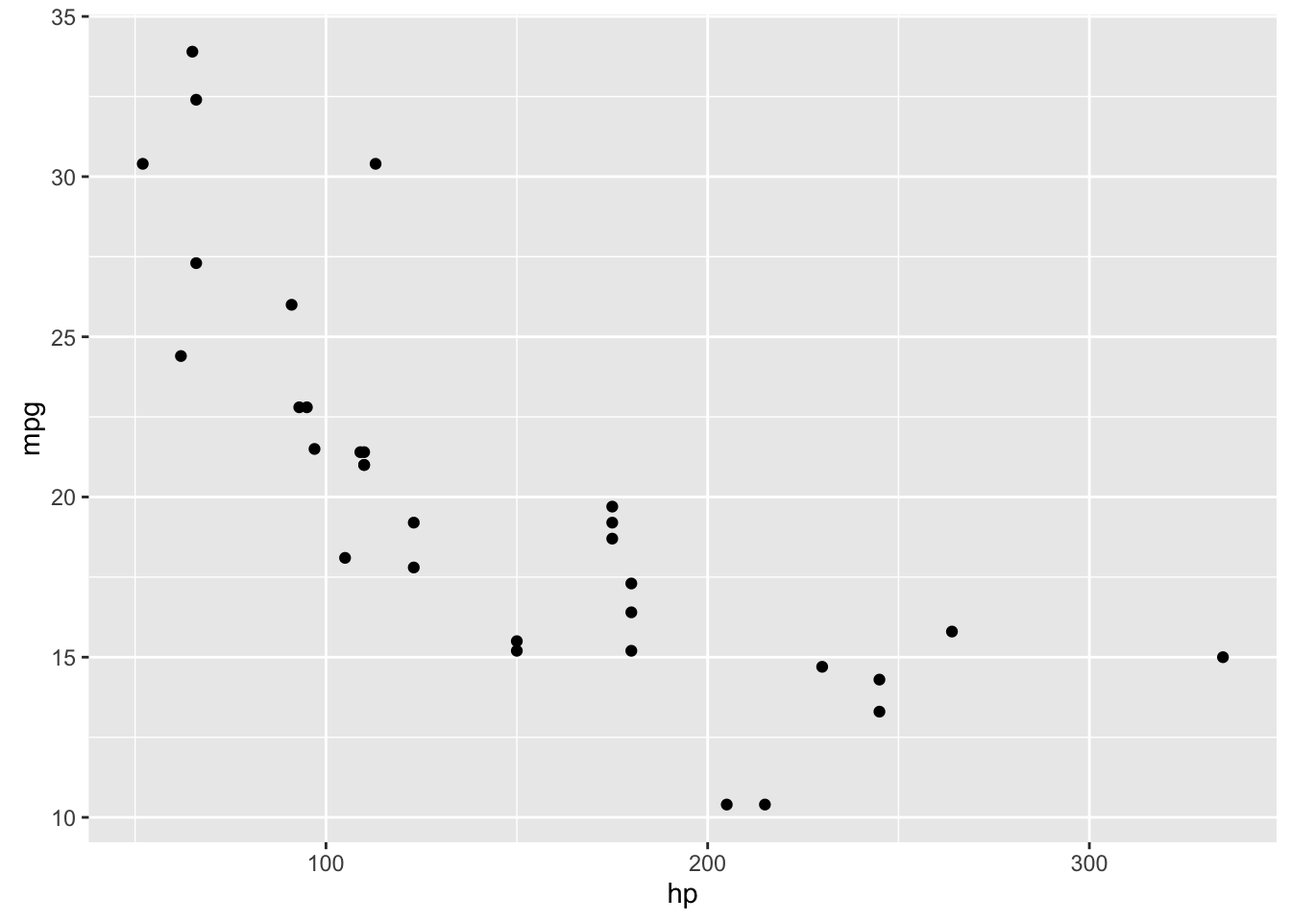
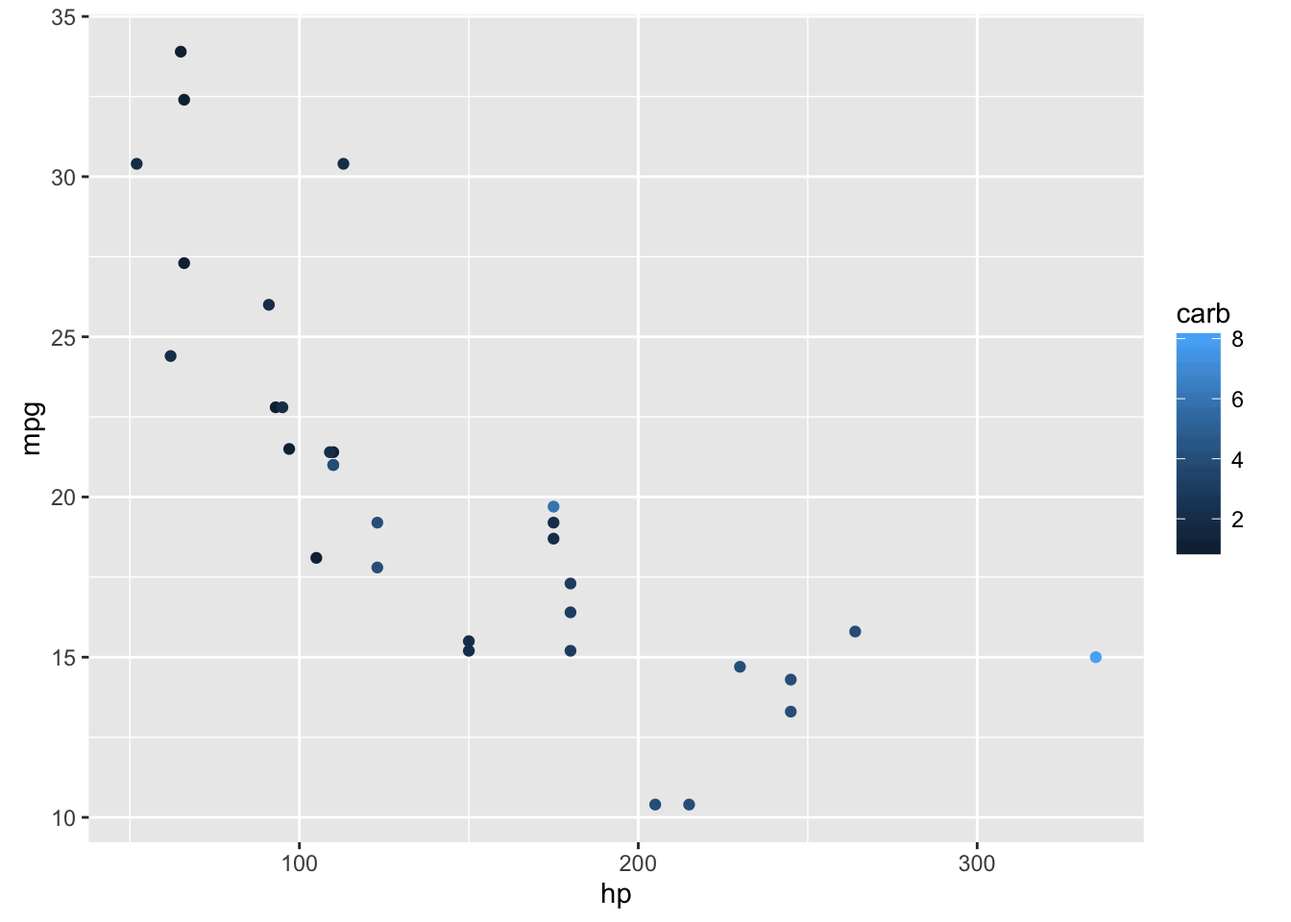
Folded tests into tutor document system

diff --git a/inst/checkr-test-cases.html b/inst/checkr-test-cases.html
@@ -111,37 +111,65 @@ $(document).ready(function () {
 </div>
 
 
+<div id="section-example-1" class="section level2">
+<h2>Example 1</h2>
+<p>Modify the code to add two and two:</p>
+<div class="tutor-exercise" data-label="example_1" data-caption="Exercise" data-lines="0">
+<pre class="text"><code>1 + 3</code></pre>
+<script type="application/json" data-opts-chunk="1">{"fig.width":7,"fig.height":5,"fig.retina":2,"fig.align":"default","fig.keep":"high","fig.show":"asis","out.width":672,"warning":true,"error":false,"message":true,"exercise.df_print":"default","exercise.checker":["function (label = NULL, user_code = NULL, check_code = NULL, ","    envir_result = NULL, evaluate_result = NULL, ..., feedback = tutor::feedback, ","    debug = TRUE) ","{","    if (debug) {","        save_file_name <- sprintf(\"~/Downloads/CheckR/chunk-%s.rds\", ","            label)","        saveRDS(list(label = label, user_code = user_code, check_code = check_code, ","            envir = envir_result, evaluate_result = evaluate_result), ","            file = save_file_name)","    }","    USER_CODE <- capture.code(user_code)","    test_envir <- new.env()","    assign(\"USER_CODE\", USER_CODE, envir = test_envir)","    commands <- parse(text = paste(check_code, collapse = \"\\n\"))","    for (k in 1:length(commands)) {","        R <- eval(commands[k], envir = test_envir)","        if (!is.null(names(R)) && all(c(\"passed\", \"line\", \"message\") %in% ","            names(R))) {","            if (R$passed) ","                next","            else {","                return(feedback(paste(\"Sorry, but\", R$message), ","                  type = \"error\", location = \"prepend\"))","            }","        }","    }","    feedback(\"Good job!\", type = \"success\")","}"]}</script>
+</div>
+<div class="tutor-exercise-support" data-label="example_1-solution" data-caption="Exercise" data-lines="0">
+<pre class="text"><code>2 + 2</code></pre>
+</div>
+<div class="tutor-exercise-support" data-label="example_1-check" data-caption="Exercise" data-lines="0">
+<pre class="text"><code>test_1 &lt;- fun_test(&quot;2 + 2&quot;, &quot;remember to add two plus two&quot;)
+USER_CODE %&gt;% test_1</code></pre>
+</div>
+</div>
+<div id="section-example-2" class="section level2">
+<h2>Example 2</h2>
 <p>Fill in the code to create this plot:</p>
 <p><img src="checkr-test-cases_files/figure-html/unnamed-chunk-1-1.png" width="30%" /></p>
 <div class="tutor-exercise" data-label="mtcarplot" data-caption="Exercise" data-lines="0">
-<pre class="text"><code># I have filled in the blanks so I can check the checker function
-# easily, with just a &quot;Run Code&quot; button push
-p &lt;- ggplot(mtcars, aes( x = hp , y = mpg )) + geom_point()
-p</code></pre>
-<script type="application/json" data-opts-chunk="1">{"fig.width":7,"fig.height":5,"fig.retina":2,"fig.align":"default","fig.keep":"high","fig.show":"asis","out.width":672,"warning":true,"error":false,"message":true,"exercise.df_print":"default","exercise.checker":["function (label = NULL, user_code = NULL, check_code = NULL, ","    envir_result = NULL, evaluate_result = NULL, ...) ","{","    save_file_name <- sprintf(\"~/Downloads/CheckR/chunk-%s.rds\", ","        label)","    saveRDS(list(label = label, user_code = user_code, check_code = check_code, ","        envir = envir_result, evaluate_result = evaluate_result), ","        file = save_file_name)","    tutor::feedback(paste(\"Check info saved in \", save_file_name), ","        type = \"success\", location = \"append\")","}"]}</script>
+<pre class="text"><code>ggplot(mtcars, aes( x = ___ , y = ___ )) + geom_point()</code></pre>
+<script type="application/json" data-opts-chunk="1">{"fig.width":7,"fig.height":5,"fig.retina":2,"fig.align":"default","fig.keep":"high","fig.show":"asis","out.width":672,"warning":true,"error":false,"message":true,"exercise.df_print":"default","exercise.checker":["function (label = NULL, user_code = NULL, check_code = NULL, ","    envir_result = NULL, evaluate_result = NULL, ..., feedback = tutor::feedback, ","    debug = TRUE) ","{","    if (debug) {","        save_file_name <- sprintf(\"~/Downloads/CheckR/chunk-%s.rds\", ","            label)","        saveRDS(list(label = label, user_code = user_code, check_code = check_code, ","            envir = envir_result, evaluate_result = evaluate_result), ","            file = save_file_name)","    }","    USER_CODE <- capture.code(user_code)","    test_envir <- new.env()","    assign(\"USER_CODE\", USER_CODE, envir = test_envir)","    commands <- parse(text = paste(check_code, collapse = \"\\n\"))","    for (k in 1:length(commands)) {","        R <- eval(commands[k], envir = test_envir)","        if (!is.null(names(R)) && all(c(\"passed\", \"line\", \"message\") %in% ","            names(R))) {","            if (R$passed) ","                next","            else {","                return(feedback(paste(\"Sorry, but\", R$message), ","                  type = \"error\", location = \"prepend\"))","            }","        }","    }","    feedback(\"Good job!\", type = \"success\")","}"]}</script>
 </div>
 <div class="tutor-exercise-support" data-label="mtcarplot-solution" data-caption="Exercise" data-lines="0">
-<pre class="text"><code>3 + 2</code></pre>
+<pre class="text"><code>ggplot(mtcars, aes(x=hp, y = mpg)) + geom_point(aes(color = carb))</code></pre>
 </div>
 <div class="tutor-exercise-support" data-label="mtcarplot-check" data-caption="Exercise" data-lines="0">
 <pre class="text"><code>test_1 &lt;- fun_test(&quot;aes(y = mpg)&quot;, message = &quot;mpg should be the y aesthetic&quot;)
-test_2 &lt;- fun_test(&quot;aes(x = hp, y = mpg)&quot;, message = &quot;Set the aesthetics via aes() to put the right variables on each axis)&quot;)
+test_2 &lt;- fun_test(&quot;aes(x = hp, y = mpg)&quot;, message = &quot;set the aesthetics via aes() to put the right variable on each axis.&quot;)
+test_3 &lt;- fun_test(&quot;aes(color = carb)&quot;, &quot;map carb to the color aethetic&quot;)
+USER_CODE %&gt;% test_1
 USER_CODE %&gt;% test_1 %&gt;% test_2
-test_3 &lt;- fun_test(&quot;aesppp(z = NULL)&quot;, message = &quot;Looking for z.&quot;)
 USER_CODE %&gt;% test_3</code></pre>
 </div>
 
 <script type="application/shiny-prerendered" data-context="server-start">
 library(tutor)
 library(ggplot2)
+library(checkr)
 
 # A simple checker function
 
-knitr::opts_chunk$set(exercise.checker = checkr::check_info_to_file)
+# to put the info in a file
+# knitr::opts_chunk$set(exercise.checker = checkr::check_info_to_file)
+
+# to process it in the Rmd document
+knitr::opts_chunk$set(exercise.checker = checkr::checkr_run_tests)
 </script>
  
 <script type="application/shiny-prerendered" data-context="server">
 tutor:::register_editor_handlers(session)
+</script>
+ 
+<script type="application/shiny-prerendered" data-context="server">
+output$`tutor-exercise-example_1-output` <- renderUI({
+  eventReactive(input$`tutor-exercise-example_1-run-button`, {
+    tutor:::handle_exercise(input$`tutor-exercise-example_1-code-editor`, check = TRUE)
+  })()
+})
 </script>
  
 <script type="application/shiny-prerendered" data-context="server">
@@ -153,9 +181,10 @@ output$`tutor-exercise-mtcarplot-output` <- renderUI({
 </script>
  <!--html_preserve-->
 <script type="application/shiny-prerendered" data-context="dependencies">
-{"type":"list","attributes":{},"value":[{"type":"list","attributes":{"names":{"type":"character","attributes":{},"value":["name","version","src","meta","script","stylesheet","head","attachment","all_files","package"]},"class":{"type":"character","attributes":{},"value":["html_dependency"]}},"value":[{"type":"character","attributes":{},"value":["jquery"]},{"type":"character","attributes":{},"value":["1.11.3"]},{"type":"list","attributes":{"names":{"type":"character","attributes":{},"value":["file"]}},"value":[{"type":"character","attributes":{},"value":["rmd/h/jquery-1.11.3"]}]},{"type":"NULL","attributes":{},"value":{}},{"type":"character","attributes":{},"value":["jquery.min.js"]},{"type":"NULL","attributes":{},"value":{}},{"type":"NULL","attributes":{},"value":{}},{"type":"NULL","attributes":{},"value":{}},{"type":"logical","attributes":{},"value":[true]},{"type":"character","attributes":{},"value":["rmarkdown"]}]},{"type":"list","attributes":{"names":{"type":"character","attributes":{},"value":["name","version","src","meta","script","stylesheet","head","attachment","all_files","package"]},"class":{"type":"character","attributes":{},"value":["html_dependency"]}},"value":[{"type":"character","attributes":{},"value":["bootstrap"]},{"type":"character","attributes":{},"value":["3.3.5"]},{"type":"list","attributes":{"names":{"type":"character","attributes":{},"value":["file"]}},"value":[{"type":"character","attributes":{},"value":["rmd/h/bootstrap-3.3.5"]}]},{"type":"list","attributes":{"names":{"type":"character","attributes":{},"value":["viewport"]}},"value":[{"type":"character","attributes":{},"value":["width=device-width, initial-scale=1"]}]},{"type":"character","attributes":{},"value":["js/bootstrap.min.js","shim/html5shiv.min.js","shim/respond.min.js"]},{"type":"character","attributes":{},"value":["css/bootstrap.min.css"]},{"type":"NULL","attributes":{},"value":{}},{"type":"NULL","attributes":{},"value":{}},{"type":"logical","attributes":{},"value":[true]},{"type":"character","attributes":{},"value":["rmarkdown"]}]},{"type":"list","attributes":{"names":{"type":"character","attributes":{},"value":["name","version","src","meta","script","stylesheet","head","attachment","all_files","package"]},"class":{"type":"character","attributes":{},"value":["html_dependency"]}},"value":[{"type":"character","attributes":{},"value":["jquery"]},{"type":"character","attributes":{},"value":["1.11.3"]},{"type":"list","attributes":{"names":{"type":"character","attributes":{},"value":["file"]}},"value":[{"type":"character","attributes":{},"value":["rmd/h/jquery-1.11.3"]}]},{"type":"NULL","attributes":{},"value":{}},{"type":"character","attributes":{},"value":["jquery.min.js"]},{"type":"NULL","attributes":{},"value":{}},{"type":"NULL","attributes":{},"value":{}},{"type":"NULL","attributes":{},"value":{}},{"type":"logical","attributes":{},"value":[true]},{"type":"character","attributes":{},"value":["rmarkdown"]}]},{"type":"list","attributes":{"names":{"type":"character","attributes":{},"value":["name","version","src","meta","script","stylesheet","head","attachment","all_files","package"]},"class":{"type":"character","attributes":{},"value":["html_dependency"]}},"value":[{"type":"character","attributes":{},"value":["navigation"]},{"type":"character","attributes":{},"value":["1.1"]},{"type":"list","attributes":{"names":{"type":"character","attributes":{},"value":["file"]}},"value":[{"type":"character","attributes":{},"value":["rmd/h/navigation-1.1"]}]},{"type":"NULL","attributes":{},"value":{}},{"type":"character","attributes":{},"value":["tabsets.js"]},{"type":"NULL","attributes":{},"value":{}},{"type":"NULL","attributes":{},"value":{}},{"type":"NULL","attributes":{},"value":{}},{"type":"logical","attributes":{},"value":[true]},{"type":"character","attributes":{},"value":["rmarkdown"]}]},{"type":"list","attributes":{"names":{"type":"character","attributes":{},"value":["name","version","src","meta","script","stylesheet","head","attachment","all_files","package"]},"class":{"type":"character","attributes":{},"value":["html_dependency"]}},"value":[{"type":"character","attributes":{},"value":["highlightjs"]},{"type":"character","attributes":{},"value":["1.1"]},{"type":"list","attributes":{"names":{"type":"character","attributes":{},"value":["file"]}},"value":[{"type":"character","attributes":{},"value":["rmd/h/highlightjs-1.1"]}]},{"type":"NULL","attributes":{},"value":{}},{"type":"character","attributes":{},"value":["highlight.js"]},{"type":"character","attributes":{},"value":["default.css"]},{"type":"NULL","attributes":{},"value":{}},{"type":"NULL","attributes":{},"value":{}},{"type":"logical","attributes":{},"value":[true]},{"type":"character","attributes":{},"value":["rmarkdown"]}]},{"type":"list","attributes":{"names":{"type":"character","attributes":{},"value":["name","version","src","meta","script","stylesheet","head","attachment","all_files","package"]},"class":{"type":"character","attributes":{},"value":["html_dependency"]}},"value":[{"type":"character","attributes":{},"value":["jquery"]},{"type":"character","attributes":{},"value":["1.11.3"]},{"type":"list","attributes":{"names":{"type":"character","attributes":{},"value":["file"]}},"value":[{"type":"character","attributes":{},"value":["rmd/h/jquery-1.11.3"]}]},{"type":"NULL","attributes":{},"value":{}},{"type":"character","attributes":{},"value":["jquery.min.js"]},{"type":"NULL","attributes":{},"value":{}},{"type":"NULL","attributes":{},"value":{}},{"type":"NULL","attributes":{},"value":{}},{"type":"logical","attributes":{},"value":[true]},{"type":"character","attributes":{},"value":["rmarkdown"]}]},{"type":"list","attributes":{"names":{"type":"character","attributes":{},"value":["name","version","src","meta","script","stylesheet","head","attachment","all_files","package"]},"class":{"type":"character","attributes":{},"value":["html_dependency"]}},"value":[{"type":"character","attributes":{},"value":["font-awesome"]},{"type":"character","attributes":{},"value":["4.5.0"]},{"type":"list","attributes":{"names":{"type":"character","attributes":{},"value":["file"]}},"value":[{"type":"character","attributes":{},"value":["rmd/h/font-awesome-4.5.0"]}]},{"type":"NULL","attributes":{},"value":{}},{"type":"NULL","attributes":{},"value":{}},{"type":"character","attributes":{},"value":["css/font-awesome.min.css"]},{"type":"NULL","attributes":{},"value":{}},{"type":"NULL","attributes":{},"value":{}},{"type":"logical","attributes":{},"value":[true]},{"type":"character","attributes":{},"value":["rmarkdown"]}]},{"type":"list","attributes":{"names":{"type":"character","attributes":{},"value":["name","version","src","meta","script","stylesheet","head","attachment","all_files","package"]},"class":{"type":"character","attributes":{},"value":["html_dependency"]}},"value":[{"type":"character","attributes":{},"value":["tutor"]},{"type":"character","attributes":{},"value":["0.1.0"]},{"type":"list","attributes":{"names":{"type":"character","attributes":{},"value":["file"]}},"value":[{"type":"character","attributes":{},"value":["lib/tutor"]}]},{"type":"NULL","attributes":{},"value":{}},{"type":"character","attributes":{},"value":["tutor.js","exercise.js","exercise-editor.js","exercise-evaluation.js","video.js"]},{"type":"character","attributes":{},"value":["tutor.css"]},{"type":"NULL","attributes":{},"value":{}},{"type":"NULL","attributes":{},"value":{}},{"type":"logical","attributes":{},"value":[true]},{"type":"character","attributes":{},"value":["tutor"]}]},{"type":"list","attributes":{"names":{"type":"character","attributes":{},"value":["name","version","src","meta","script","stylesheet","head","attachment","all_files","package"]},"class":{"type":"character","attributes":{},"value":["html_dependency"]}},"value":[{"type":"character","attributes":{},"value":["ace"]},{"type":"character","attributes":{},"value":["1.2.3"]},{"type":"list","attributes":{"names":{"type":"character","attributes":{},"value":["file"]}},"value":[{"type":"character","attributes":{},"value":["lib/ace"]}]},{"type":"NULL","attributes":{},"value":{}},{"type":"character","attributes":{},"value":["ace.js"]},{"type":"NULL","attributes":{},"value":{}},{"type":"NULL","attributes":{},"value":{}},{"type":"NULL","attributes":{},"value":{}},{"type":"logical","attributes":{},"value":[true]},{"type":"character","attributes":{},"value":["tutor"]}]},{"type":"list","attributes":{"names":{"type":"character","attributes":{},"value":["name","version","src","meta","script","stylesheet","head","attachment","all_files","package"]},"class":{"type":"character","attributes":{},"value":["html_dependency"]}},"value":[{"type":"character","attributes":{},"value":["clipboardjs"]},{"type":"character","attributes":{},"value":["1.5.15"]},{"type":"list","attributes":{"names":{"type":"character","attributes":{},"value":["file"]}},"value":[{"type":"character","attributes":{},"value":["lib/clipboardjs"]}]},{"type":"NULL","attributes":{},"value":{}},{"type":"character","attributes":{},"value":["clipboard.min.js"]},{"type":"NULL","attributes":{},"value":{}},{"type":"NULL","attributes":{},"value":{}},{"type":"NULL","attributes":{},"value":{}},{"type":"logical","attributes":{},"value":[true]},{"type":"character","attributes":{},"value":["tutor"]}]}]}
+{"type":"list","attributes":{},"value":[{"type":"list","attributes":{"names":{"type":"character","attributes":{},"value":["name","version","src","meta","script","stylesheet","head","attachment","all_files","package"]},"class":{"type":"character","attributes":{},"value":["html_dependency"]}},"value":[{"type":"character","attributes":{},"value":["jquery"]},{"type":"character","attributes":{},"value":["1.11.3"]},{"type":"list","attributes":{"names":{"type":"character","attributes":{},"value":["file"]}},"value":[{"type":"character","attributes":{},"value":["rmd/h/jquery-1.11.3"]}]},{"type":"NULL","attributes":{},"value":{}},{"type":"character","attributes":{},"value":["jquery.min.js"]},{"type":"NULL","attributes":{},"value":{}},{"type":"NULL","attributes":{},"value":{}},{"type":"NULL","attributes":{},"value":{}},{"type":"logical","attributes":{},"value":[true]},{"type":"character","attributes":{},"value":["rmarkdown"]}]},{"type":"list","attributes":{"names":{"type":"character","attributes":{},"value":["name","version","src","meta","script","stylesheet","head","attachment","all_files","package"]},"class":{"type":"character","attributes":{},"value":["html_dependency"]}},"value":[{"type":"character","attributes":{},"value":["bootstrap"]},{"type":"character","attributes":{},"value":["3.3.5"]},{"type":"list","attributes":{"names":{"type":"character","attributes":{},"value":["file"]}},"value":[{"type":"character","attributes":{},"value":["rmd/h/bootstrap-3.3.5"]}]},{"type":"list","attributes":{"names":{"type":"character","attributes":{},"value":["viewport"]}},"value":[{"type":"character","attributes":{},"value":["width=device-width, initial-scale=1"]}]},{"type":"character","attributes":{},"value":["js/bootstrap.min.js","shim/html5shiv.min.js","shim/respond.min.js"]},{"type":"character","attributes":{},"value":["css/bootstrap.min.css"]},{"type":"NULL","attributes":{},"value":{}},{"type":"NULL","attributes":{},"value":{}},{"type":"logical","attributes":{},"value":[true]},{"type":"character","attributes":{},"value":["rmarkdown"]}]},{"type":"list","attributes":{"names":{"type":"character","attributes":{},"value":["name","version","src","meta","script","stylesheet","head","attachment","all_files","package"]},"class":{"type":"character","attributes":{},"value":["html_dependency"]}},"value":[{"type":"character","attributes":{},"value":["jquery"]},{"type":"character","attributes":{},"value":["1.11.3"]},{"type":"list","attributes":{"names":{"type":"character","attributes":{},"value":["file"]}},"value":[{"type":"character","attributes":{},"value":["rmd/h/jquery-1.11.3"]}]},{"type":"NULL","attributes":{},"value":{}},{"type":"character","attributes":{},"value":["jquery.min.js"]},{"type":"NULL","attributes":{},"value":{}},{"type":"NULL","attributes":{},"value":{}},{"type":"NULL","attributes":{},"value":{}},{"type":"logical","attributes":{},"value":[true]},{"type":"character","attributes":{},"value":["rmarkdown"]}]},{"type":"list","attributes":{"names":{"type":"character","attributes":{},"value":["name","version","src","meta","script","stylesheet","head","attachment","all_files","package"]},"class":{"type":"character","attributes":{},"value":["html_dependency"]}},"value":[{"type":"character","attributes":{},"value":["navigation"]},{"type":"character","attributes":{},"value":["1.1"]},{"type":"list","attributes":{"names":{"type":"character","attributes":{},"value":["file"]}},"value":[{"type":"character","attributes":{},"value":["rmd/h/navigation-1.1"]}]},{"type":"NULL","attributes":{},"value":{}},{"type":"character","attributes":{},"value":["tabsets.js"]},{"type":"NULL","attributes":{},"value":{}},{"type":"NULL","attributes":{},"value":{}},{"type":"NULL","attributes":{},"value":{}},{"type":"logical","attributes":{},"value":[true]},{"type":"character","attributes":{},"value":["rmarkdown"]}]},{"type":"list","attributes":{"names":{"type":"character","attributes":{},"value":["name","version","src","meta","script","stylesheet","head","attachment","all_files","package"]},"class":{"type":"character","attributes":{},"value":["html_dependency"]}},"value":[{"type":"character","attributes":{},"value":["highlightjs"]},{"type":"character","attributes":{},"value":["1.1"]},{"type":"list","attributes":{"names":{"type":"character","attributes":{},"value":["file"]}},"value":[{"type":"character","attributes":{},"value":["rmd/h/highlightjs-1.1"]}]},{"type":"NULL","attributes":{},"value":{}},{"type":"character","attributes":{},"value":["highlight.js"]},{"type":"character","attributes":{},"value":["default.css"]},{"type":"NULL","attributes":{},"value":{}},{"type":"NULL","attributes":{},"value":{}},{"type":"logical","attributes":{},"value":[true]},{"type":"character","attributes":{},"value":["rmarkdown"]}]},{"type":"list","attributes":{"names":{"type":"character","attributes":{},"value":["name","version","src","meta","script","stylesheet","head","attachment","all_files","package"]},"class":{"type":"character","attributes":{},"value":["html_dependency"]}},"value":[{"type":"character","attributes":{},"value":["jquery"]},{"type":"character","attributes":{},"value":["1.11.3"]},{"type":"list","attributes":{"names":{"type":"character","attributes":{},"value":["file"]}},"value":[{"type":"character","attributes":{},"value":["rmd/h/jquery-1.11.3"]}]},{"type":"NULL","attributes":{},"value":{}},{"type":"character","attributes":{},"value":["jquery.min.js"]},{"type":"NULL","attributes":{},"value":{}},{"type":"NULL","attributes":{},"value":{}},{"type":"NULL","attributes":{},"value":{}},{"type":"logical","attributes":{},"value":[true]},{"type":"character","attributes":{},"value":["rmarkdown"]}]},{"type":"list","attributes":{"names":{"type":"character","attributes":{},"value":["name","version","src","meta","script","stylesheet","head","attachment","all_files","package"]},"class":{"type":"character","attributes":{},"value":["html_dependency"]}},"value":[{"type":"character","attributes":{},"value":["font-awesome"]},{"type":"character","attributes":{},"value":["4.5.0"]},{"type":"list","attributes":{"names":{"type":"character","attributes":{},"value":["file"]}},"value":[{"type":"character","attributes":{},"value":["rmd/h/font-awesome-4.5.0"]}]},{"type":"NULL","attributes":{},"value":{}},{"type":"NULL","attributes":{},"value":{}},{"type":"character","attributes":{},"value":["css/font-awesome.min.css"]},{"type":"NULL","attributes":{},"value":{}},{"type":"NULL","attributes":{},"value":{}},{"type":"logical","attributes":{},"value":[true]},{"type":"character","attributes":{},"value":["rmarkdown"]}]},{"type":"list","attributes":{"names":{"type":"character","attributes":{},"value":["name","version","src","meta","script","stylesheet","head","attachment","all_files","package"]},"class":{"type":"character","attributes":{},"value":["html_dependency"]}},"value":[{"type":"character","attributes":{},"value":["tutor"]},{"type":"character","attributes":{},"value":["0.1.0"]},{"type":"list","attributes":{"names":{"type":"character","attributes":{},"value":["file"]}},"value":[{"type":"character","attributes":{},"value":["lib/tutor"]}]},{"type":"NULL","attributes":{},"value":{}},{"type":"character","attributes":{},"value":["tutor.js","exercise.js","exercise-editor.js","exercise-evaluation.js","video.js"]},{"type":"character","attributes":{},"value":["tutor.css"]},{"type":"NULL","attributes":{},"value":{}},{"type":"NULL","attributes":{},"value":{}},{"type":"logical","attributes":{},"value":[true]},{"type":"character","attributes":{},"value":["tutor"]}]},{"type":"list","attributes":{"names":{"type":"character","attributes":{},"value":["name","version","src","meta","script","stylesheet","head","attachment","all_files","package"]},"class":{"type":"character","attributes":{},"value":["html_dependency"]}},"value":[{"type":"character","attributes":{},"value":["ace"]},{"type":"character","attributes":{},"value":["1.2.3"]},{"type":"list","attributes":{"names":{"type":"character","attributes":{},"value":["file"]}},"value":[{"type":"character","attributes":{},"value":["lib/ace"]}]},{"type":"NULL","attributes":{},"value":{}},{"type":"character","attributes":{},"value":["ace.js"]},{"type":"NULL","attributes":{},"value":{}},{"type":"NULL","attributes":{},"value":{}},{"type":"NULL","attributes":{},"value":{}},{"type":"logical","attributes":{},"value":[true]},{"type":"character","attributes":{},"value":["tutor"]}]},{"type":"list","attributes":{"names":{"type":"character","attributes":{},"value":["name","version","src","meta","script","stylesheet","head","attachment","all_files","package"]},"class":{"type":"character","attributes":{},"value":["html_dependency"]}},"value":[{"type":"character","attributes":{},"value":["clipboardjs"]},{"type":"character","attributes":{},"value":["1.5.15"]},{"type":"list","attributes":{"names":{"type":"character","attributes":{},"value":["file"]}},"value":[{"type":"character","attributes":{},"value":["lib/clipboardjs"]}]},{"type":"NULL","attributes":{},"value":{}},{"type":"character","attributes":{},"value":["clipboard.min.js"]},{"type":"NULL","attributes":{},"value":{}},{"type":"NULL","attributes":{},"value":{}},{"type":"NULL","attributes":{},"value":{}},{"type":"logical","attributes":{},"value":[true]},{"type":"character","attributes":{},"value":["tutor"]}]},{"type":"list","attributes":{"names":{"type":"character","attributes":{},"value":["name","version","src","meta","script","stylesheet","head","attachment","all_files","package"]},"class":{"type":"character","attributes":{},"value":["html_dependency"]}},"value":[{"type":"character","attributes":{},"value":["ace"]},{"type":"character","attributes":{},"value":["1.2.3"]},{"type":"list","attributes":{"names":{"type":"character","attributes":{},"value":["file"]}},"value":[{"type":"character","attributes":{},"value":["lib/ace"]}]},{"type":"NULL","attributes":{},"value":{}},{"type":"character","attributes":{},"value":["ace.js"]},{"type":"NULL","attributes":{},"value":{}},{"type":"NULL","attributes":{},"value":{}},{"type":"NULL","attributes":{},"value":{}},{"type":"logical","attributes":{},"value":[true]},{"type":"character","attributes":{},"value":["tutor"]}]},{"type":"list","attributes":{"names":{"type":"character","attributes":{},"value":["name","version","src","meta","script","stylesheet","head","attachment","all_files","package"]},"class":{"type":"character","attributes":{},"value":["html_dependency"]}},"value":[{"type":"character","attributes":{},"value":["clipboardjs"]},{"type":"character","attributes":{},"value":["1.5.15"]},{"type":"list","attributes":{"names":{"type":"character","attributes":{},"value":["file"]}},"value":[{"type":"character","attributes":{},"value":["lib/clipboardjs"]}]},{"type":"NULL","attributes":{},"value":{}},{"type":"character","attributes":{},"value":["clipboard.min.js"]},{"type":"NULL","attributes":{},"value":{}},{"type":"NULL","attributes":{},"value":{}},{"type":"NULL","attributes":{},"value":{}},{"type":"logical","attributes":{},"value":[true]},{"type":"character","attributes":{},"value":["tutor"]}]}]}
 </script>
 <!--/html_preserve-->
+</div>
 
 
 
